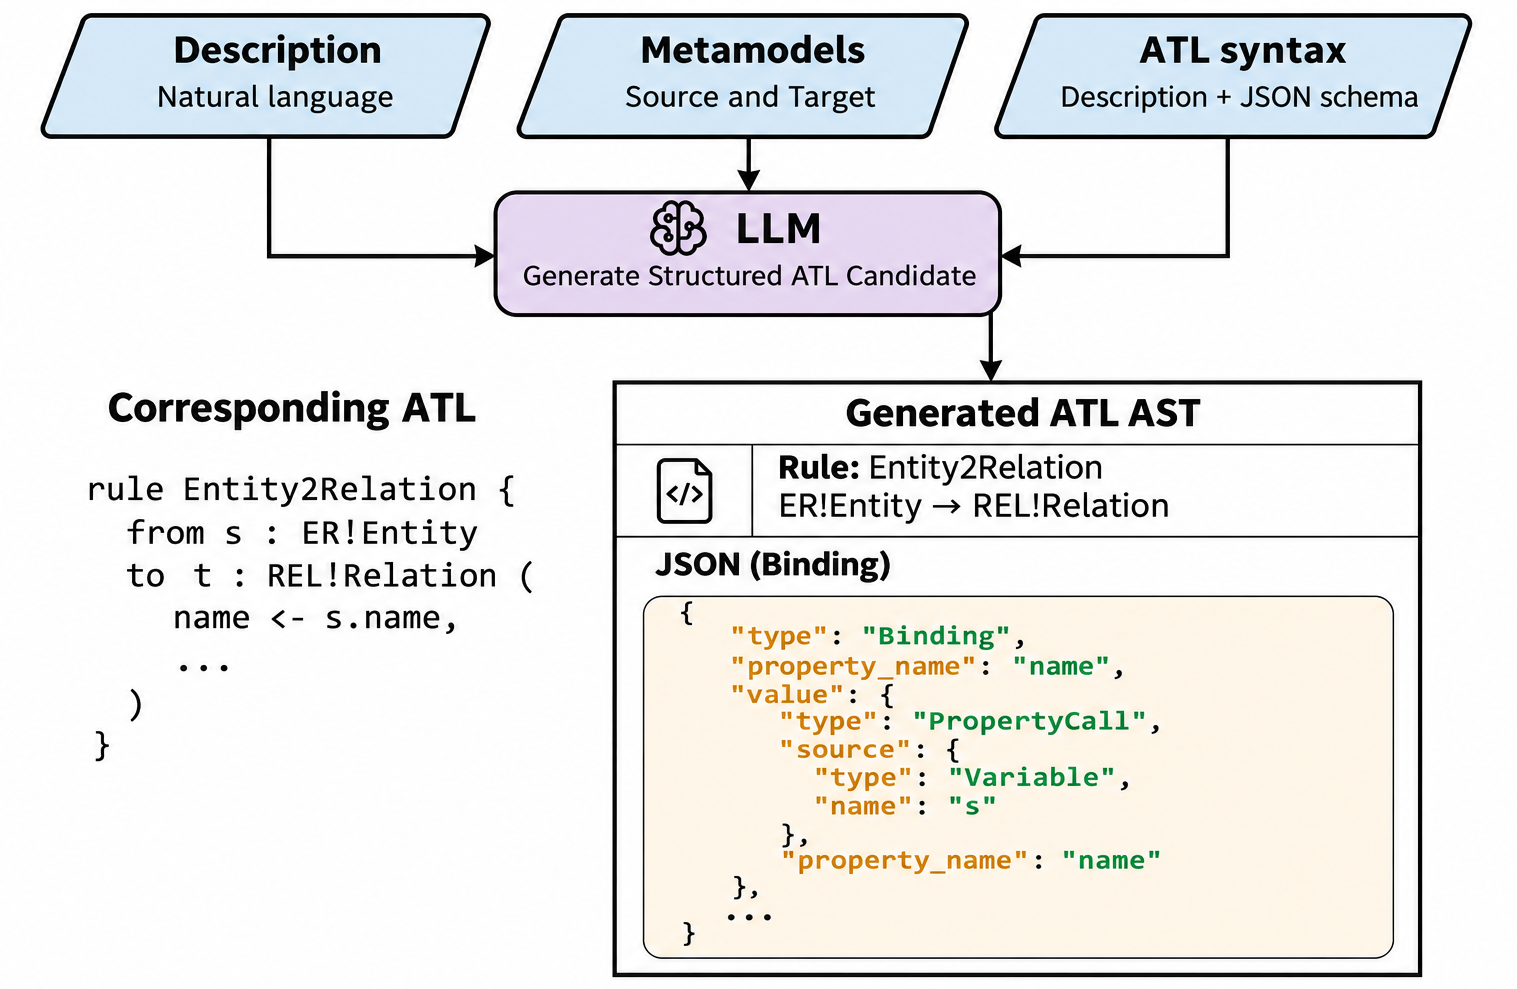
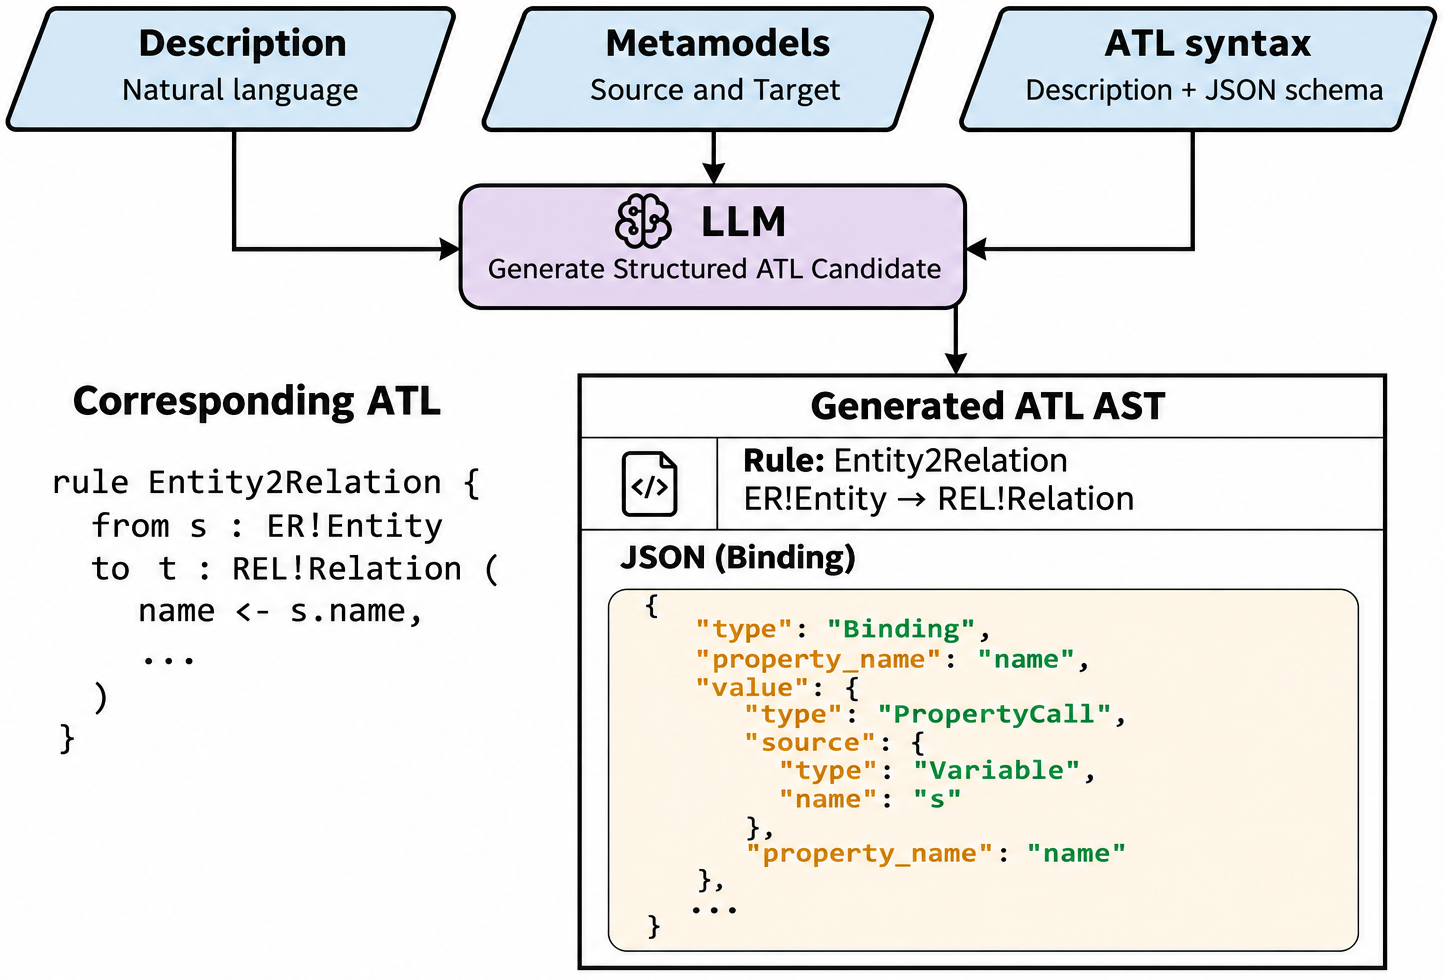
update final version

diff --git a/poster.html b/poster.html
@@ -60,7 +60,7 @@
             <aside class="intro-contributions" aria-label="Our contributions">
               <div class="intro-contributions-title">Our contributions</div>
               <ul class="square-list">
-                <li>A neuro-symbolic approach combining LLM-based ATL generation with three verification layers.</li>
+                <li>A neuro-symbolic approach combining LLM-based ATL generation with three verification layers: structural checking, static analysis, and formal verification.</li>
                 <li>An empirical evaluation of the method on ATL transformation tasks.</li>
               </ul>
             </aside>
@@ -114,8 +114,8 @@
                 checks
                 pass or the
                 retry limit is reached.</li>
-              <li>Only those candidates that successfully pass all verification layers are accepted.</li>
             </ul>
+            <p>Only those candidates that successfully pass all verification layers are accepted.</p>
           </div>
           <figure class="pipeline-figure">
             <img src="figures/pipeline.png" alt="Neuro-symbolic generation, verification, and feedback pipeline">
@@ -128,7 +128,7 @@
       <div class="middle-grid">
         <section class="panel generation" aria-labelledby="generation-heading">
           <h2 class="panel-heading" id="generation-heading"><span class="number">3</span><span
-              class="ribbon">Generation</span></h2>
+              class="ribbon">Generation of Transformations</span></h2>
           <div class="generation-layout justified">
             <p>The LLM uses natural-language requirements, source and target metamodels, and ATL syntax specifications
               to infer mappings and generate a structured ATL candidate. An ATL JSON schema guides generation and is
@@ -142,23 +142,21 @@
         </section>
         <section class="panel verification" aria-labelledby="verification-heading">
           <h2 class="panel-heading" id="verification-heading"><span class="number">4</span><span
-              class="ribbon">Verification</span></h2>
+              class="ribbon">Verification of ATL Transformations</span></h2>
           <div class="verification-layout">
             <div class="layer-grid">
               <div class="layer">
                 <div class="layer-header"><span>L1</span><strong>Structural checking</strong></div>
-                <p>Checks whether the JSON representation of each ATL candidate conforms to the JSON schema derived
-                  from the ATL abstract syntax.</p>
+                <p>Checks whether the generated ATL AST conforms to the JSON schema derived from ATL abstract syntax.</p>
               </div>
               <div class="layer">
                 <div class="layer-header"><span>L2</span><strong>Static analysis</strong></div>
-                <p>Checks whether referenced types and features are defined in the source and target metamodels and whether expressions are type con&shy;sistent.</p>
+                <p>Checks whether referenced types and features exist in source and target metamodels and expressions are type-consistent.</p>
               </div>
               <div class="layer">
                 <div class="layer-header"><span>L3</span><strong>Formal verification</strong></div>
                 <p>Checks whether valid source models are transformed into target models satisfying target
-                  metamodel
-                  constraints; violations yield counter&shy;examples.</p>
+                  metamodel constraints.</p>
               </div>
             </div>
               <div class="formal-row">
@@ -170,8 +168,15 @@
                   </figure>
                 </div>
                 <div class="verification-note">
-                  <p>Formal verification uses bounded model finding. A <b>SAT</b> result identifies a counterexample; an
-                    <b>UNSAT</b> result means none exists within the configured bounds.</p>
+                  <p>
+                    Formal verification uses bounded model finding to search for
+                    counterexamples where valid source models yield target models
+                    violating specified constraints.
+                  </p>
+                  <ul class="square-list">
+                    <li><b>SAT:</b> A counterexample is found.</li>
+                    <li><b>UNSAT:</b> No counterexample exists within the configured bounds.</li>
+                  </ul>
                 </div>
               </div>
           </div>
@@ -196,7 +201,7 @@
                   <ul class="square-list">
                     <li><strong>Benchmark:</strong> 15 ATL tasks (LLM4MTLs), 45 test cases</li>
                     <li><strong>LLM Setup:</strong> Gemini 3.6 Flash (&le; 5 revisions)</li>
-                    <li><strong>Bounds:</strong> 5 objects/class, 10 links/ref</li>
+                    <li><strong>Verification Bounds:</strong>&le; 5 objects/class</li>
                   </ul>
                 </div>
                 <div class="eval-metrics">
@@ -204,9 +209,11 @@
                     <h3 class="eval-title"><i class="fa-solid fa-chart-simple mini-icon"></i> Metrics</h3>
                   </div>
                   <div class="metric-lines">
-                    <p><b>Parsed:</b> accepted by ATL parser <i>•</i> <b>PPLs:</b> parser problems per code line</p>
-                    <p><b>Tests Passed:</b> transformations passing all functional tests</p>
-                    <p><b>Avg. Tokens:</b> tokens per task <i>•</i> <b>Avg. Time:</b> end-to-end time per task</p>
+                    <p><b>Parsed:</b> accepted by ATL parser</p>
+                    <p><b>Avg. Tokens:</b> tokens per task</p>
+                    <p><b>PPLs:</b> parser problems per code line</p>
+                    <p><b>Avg. Time:</b> end-to-end time per task</p>
+                    <p class="metric-tests"><b>Tests Passed:</b> passing all functional tests</p>
                   </div>
                 </div>
                 </div>
@@ -327,7 +334,7 @@
           <h2 class="panel-heading" id="conclusion-heading"><span class="number">6</span><span class="ribbon">Conclusion
               &amp; Future Work</span></h2>
           <div class="conclusion-layout justified">
-           <p>The proposed approach integrates LLM-based generation with structural checking, static analysis, and formal verification, with detected violations guiding revision. It can improve the functional correctness of generated ATL transformations on the evaluated tasks.</p>
+           <p>The proposed approach combines LLM-based generation of ATL transformations with structural checking, static analysis, and formal verification, with detected violations guiding revision. This approach can improve the functional correctness of generated transformations on the evaluated tasks.</p>
             <h3>Future work:</h3>
             <ul class="square-list">
               <li>Extend formal verification to a broader ATL/OCL subset and other transformation languages.</li>

diff --git a/poster.css b/poster.css
@@ -135,11 +135,11 @@ header .af b,
 }
 
 .poster-main {
-  padding: 19px 2px 19px;
+  padding: 15.67px 8px 19px;
 
   height: 1328px;
   display: grid;
-  grid-template-rows: 340px 265px 358px 286px;
+  grid-template-rows: 340px 265px 358px 289.33px;
   gap: 15.67px;
   box-sizing: border-box;
 }
@@ -245,8 +245,8 @@ strong {
 /* Introduction: 2-column layout (Left: Narrative + ER & REL metamodels; Right: ATL Code Listing) */
 .introduction-layout {
   display: grid;
-  grid-template-columns: minmax(0, 1.06fr) minmax(0, 0.94fr);
-  gap: 12px;
+  grid-template-columns: minmax(0, 1.15fr) minmax(0, 0.95fr);
+  gap: 1.5px;
   padding: 21px 12px 10px;
   height: 100%;
   box-sizing: border-box;
@@ -333,7 +333,7 @@ strong {
 
 .atl-figure img {
   display: block;
-  width: 88%;
+  width: 100%;
   height: auto;
   margin: 0 auto;
 }
@@ -350,7 +350,7 @@ strong {
 .intro-contributions {
   margin-top: auto;
   margin-bottom: 0;
-  width: 94%;
+  width: 97%;
   min-height: 93px;
   align-self: flex-end;
   padding: 6px 10px 5px;
@@ -466,8 +466,8 @@ strong {
   height: 100%;
   padding: 7px 12px 7px 12px;
   display: grid;
-  grid-template-columns: 280px minmax(0, 1fr);
-  gap: 10px;
+  grid-template-columns: 287px minmax(0, 1fr);
+  gap: 2.5px;
 }
 
 .overview-copy {
@@ -516,7 +516,7 @@ strong {
 /* Middle: Generation and Verification */
 .middle-grid {
   display: grid;
-  grid-template-columns: 36% minmax(0, 1fr);
+  grid-template-columns: 38% minmax(0, 1fr);
   gap: 9px;
   min-width: 0;
   min-height: 0;
@@ -541,13 +541,12 @@ strong {
   display: flex;
   flex-direction: column;
   align-items: center;
-  margin-top: 2px;
-  transform: translateY(-20px);
+  margin-top: -15px;
 }
 
 .generation-figure img {
-  width: 105%;
-  height: 283px;
+  width: 100%;
+  height: 280px;
   object-fit: contain;
   display: block;
 }
@@ -556,7 +555,7 @@ strong {
   font-size: 10.2px;
   line-height: 14px;
   color: #1a324b;
-  margin-top: -17px;
+  margin-top: -14px;
   font-weight: 500;
   text-align: center;
   width: 100%;
@@ -568,14 +567,14 @@ strong {
   height: 100%;
   display: flex;
   flex-direction: column;
-  gap: 7px;
+  gap: 5px;
 }
 
 .layer-grid {
   display: grid;
-  grid-template-columns: repeat(3, minmax(0, 1fr));
-  gap: 7px;
-  height: 106px;
+  grid-template-columns: repeat(3, 195px);
+  gap: 12px;
+  height: 90px;
   flex: none;
 }
 
@@ -617,7 +616,7 @@ strong {
   line-height: 14.6px;
   text-align: justify;
   hyphens: auto;
-  padding: 5px 5px 3px;
+  padding: 4px 5px 4px;
   flex: 1;
 }
 
@@ -644,8 +643,8 @@ strong {
 }
 
 .formal-figure img {
-  max-width: 100%;
-  height: 142px;
+  max-width: 95%;
+  height: 135px;
   object-fit: contain;
   display: block;
 }
@@ -654,7 +653,7 @@ strong {
   font-size: 10.2px;
   line-height: 14px;
   color: #1a324b;
-  margin-top: 6px;
+  margin-top: 2px;
   font-weight: 500;
   text-align: center;
   width: 100%;
@@ -668,9 +667,17 @@ strong {
   text-align: left;
   font-size: 11.3px;
   line-height: 14.6px;
-  padding: 6px 8px;
+  padding: 6px 8px 5px;
   min-width: 0;
   overflow-wrap: break-word;
+}
+
+.verification-note .square-list li {
+  margin-bottom: 2px;
+}
+
+.verification-note .square-list li:last-child {
+  margin-bottom: 0;
 }
 
 /* Bottom: 2 editable experiment tables and conclusion */
@@ -794,18 +801,22 @@ strong {
   color: #0a253d;
   font-size: 11.3px;
   line-height: 14.6px;
-  white-space: nowrap;
   font-weight: 500;
+  display: grid;
+  grid-template-columns: minmax(0, 1fr) minmax(0, 1fr);
+  column-gap: 8px;
+  row-gap: 2px;
 }
 
 .metric-lines p {
-  margin: 0 0 2px;
+  margin: 0;
   position: relative;
   padding-left: 8px;
+  white-space: nowrap;
 }
 
-.metric-lines p:last-child {
-  margin-bottom: 0;
+.metric-lines .metric-tests {
+  grid-column: 1 / -1;
 }
 
 .metric-lines p::before {
@@ -824,12 +835,6 @@ strong {
 
 .eval-summary ul.square-list li strong {
   font-weight: 700;
-}
-
-.metric-lines i {
-  color: #1496a2;
-  font-style: normal;
-  margin: 0 4px;
 }
 
 .metric-tags {
@@ -879,7 +884,7 @@ strong {
   display: grid;
   grid-template-columns: 290px minmax(0, 1fr);
   grid-template-rows: 150px max-content;
-  gap: 8px 10px;
+  gap: 9px 10px;
   align-content: start;
   min-width: 0;
 }
@@ -1050,12 +1055,12 @@ strong {
 /* Column widths for Table 2 (width ~420px) */
 .eval-col:last-child .data-table th:nth-child(1),
 .data-table:last-child th:nth-child(1) {
-  width: 20%;
+  width: 21%;
 }
 
 .eval-col:last-child .data-table th:nth-child(2),
 .data-table:last-child th:nth-child(2) {
-  width: 16%;
+  width: 15.3%;
 }
 
 .eval-col:last-child .data-table th:nth-child(3),
@@ -1065,7 +1070,7 @@ strong {
 
 .eval-col:last-child .data-table th:nth-child(4),
 .data-table:last-child th:nth-child(4) {
-  width: 18%;
+  width: 17.7%;
 }
 
 .eval-col:last-child .data-table th:nth-child(5),
